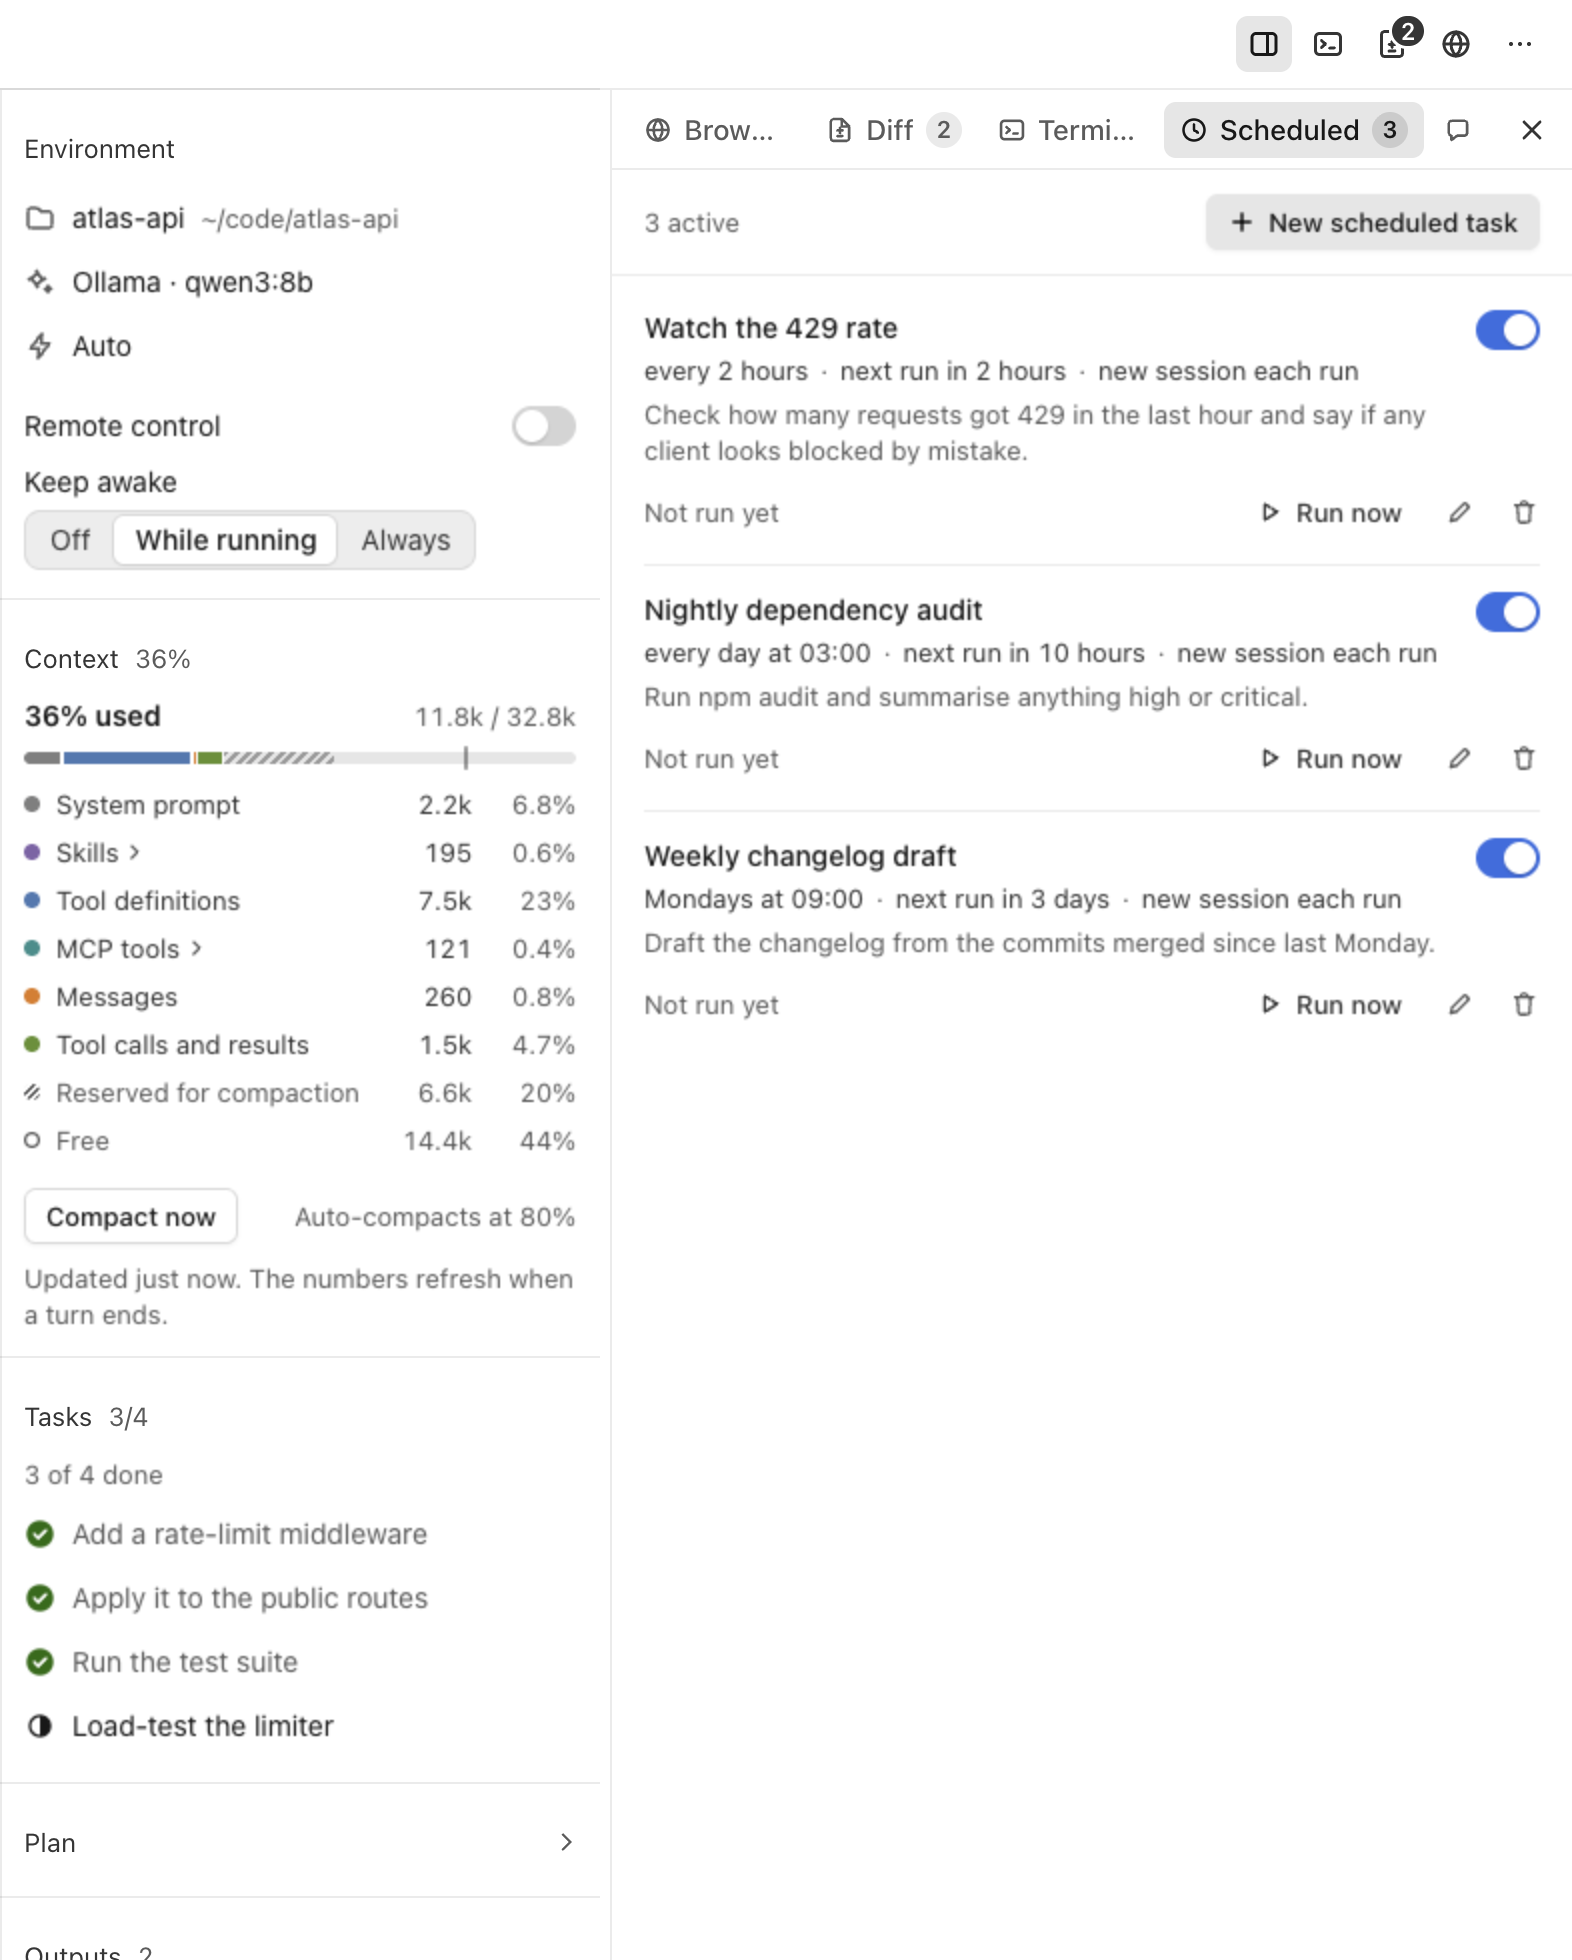
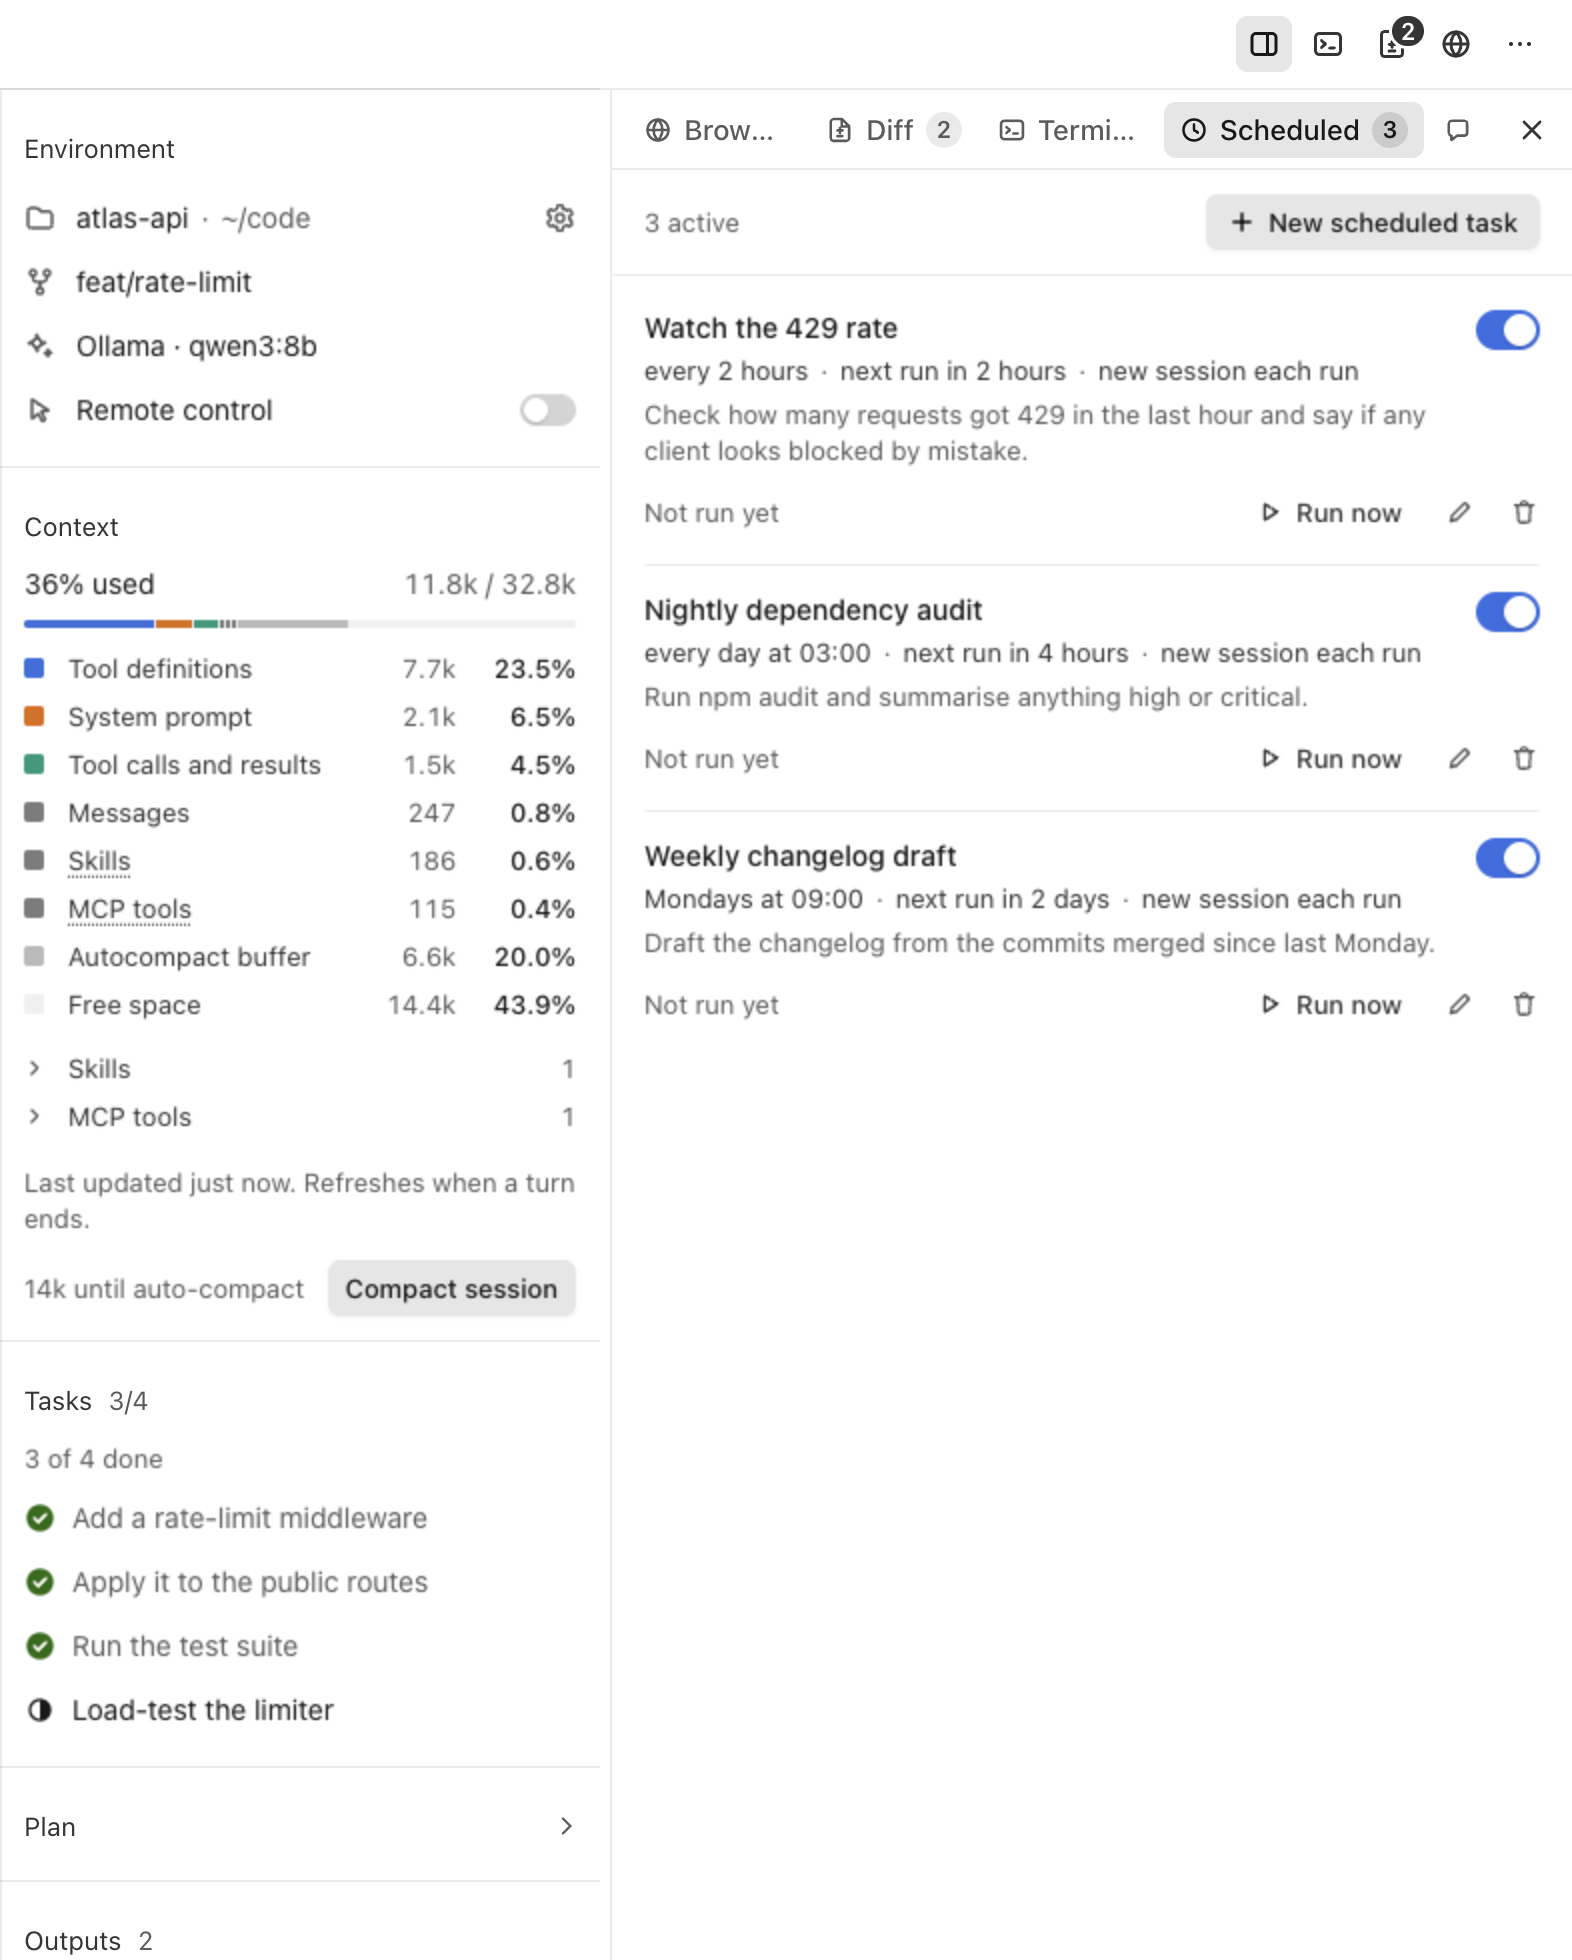
0.8.0: the changelog, the version, the screenshots and the social preview

diff --git a/docs/ux-backlog.md b/docs/ux-backlog.md
@@ -12,6 +12,7 @@ Decided with the user on 2026-11-06; the version rule is in [releasing.md](relea
 | 0.5.0 | The app in white and grey, like Claude Code: neutral surfaces in both schemes, every button white or grey, blue only where it carries meaning; the warm 0.4.0 palette kept as a "Paper" theme mod. The Mods page with its own tabs (Backgrounds, Chat bar, Conversation, Themes) | released 2026-11-06 |
 | 0.6.0 | Named providers (OpenRouter, Portkey, OpenAI, Anthropic, Ollama, LM Studio, any OpenAI-compatible endpoint) set from `settings.json`, with a JSON schema, a guide written for coding agents, and a `silo` command that adds, selects and tests a provider without the window. The release also brings the new name, Silo Harness: the config and data folders move on first launch, and the old folder, file and variable names are still read | released 2026-11-06 |
 | 0.7.0 | A liquid glass look (translucent, layered materials in the style of macOS 26) for the app and for the website: a bundled Glass theme mod, off by default, and the same treatment on the website. The user said it is not important, so it waited until 0.5.0 and 0.6.0 were out | released 2026-11-06 |
+| 0.8.0 | Closer to Claude Code: hooks in Claude Code's format (settings.json and mods), the permission prompt and an ask_user question card in Claude Code's style, one quiet line per tool call, the rail, footer and status line laid out like Claude Code's | released 2026-11-07 |
 
 ## Done in earlier rounds
 

diff --git a/CHANGELOG.md b/CHANGELOG.md
@@ -1,6 +1,8 @@
 # Changelog
 
-## Unreleased
+## 0.8.0
+
+Closer to Claude Code: hooks in Claude Code's own format, from settings.json and from mods; the permission prompt and a new question card drawn as Claude Code draws them; one quiet line per tool call; and the rail, the footer and the status line laid out like Claude Code's.
 
 ### Hooks
 
